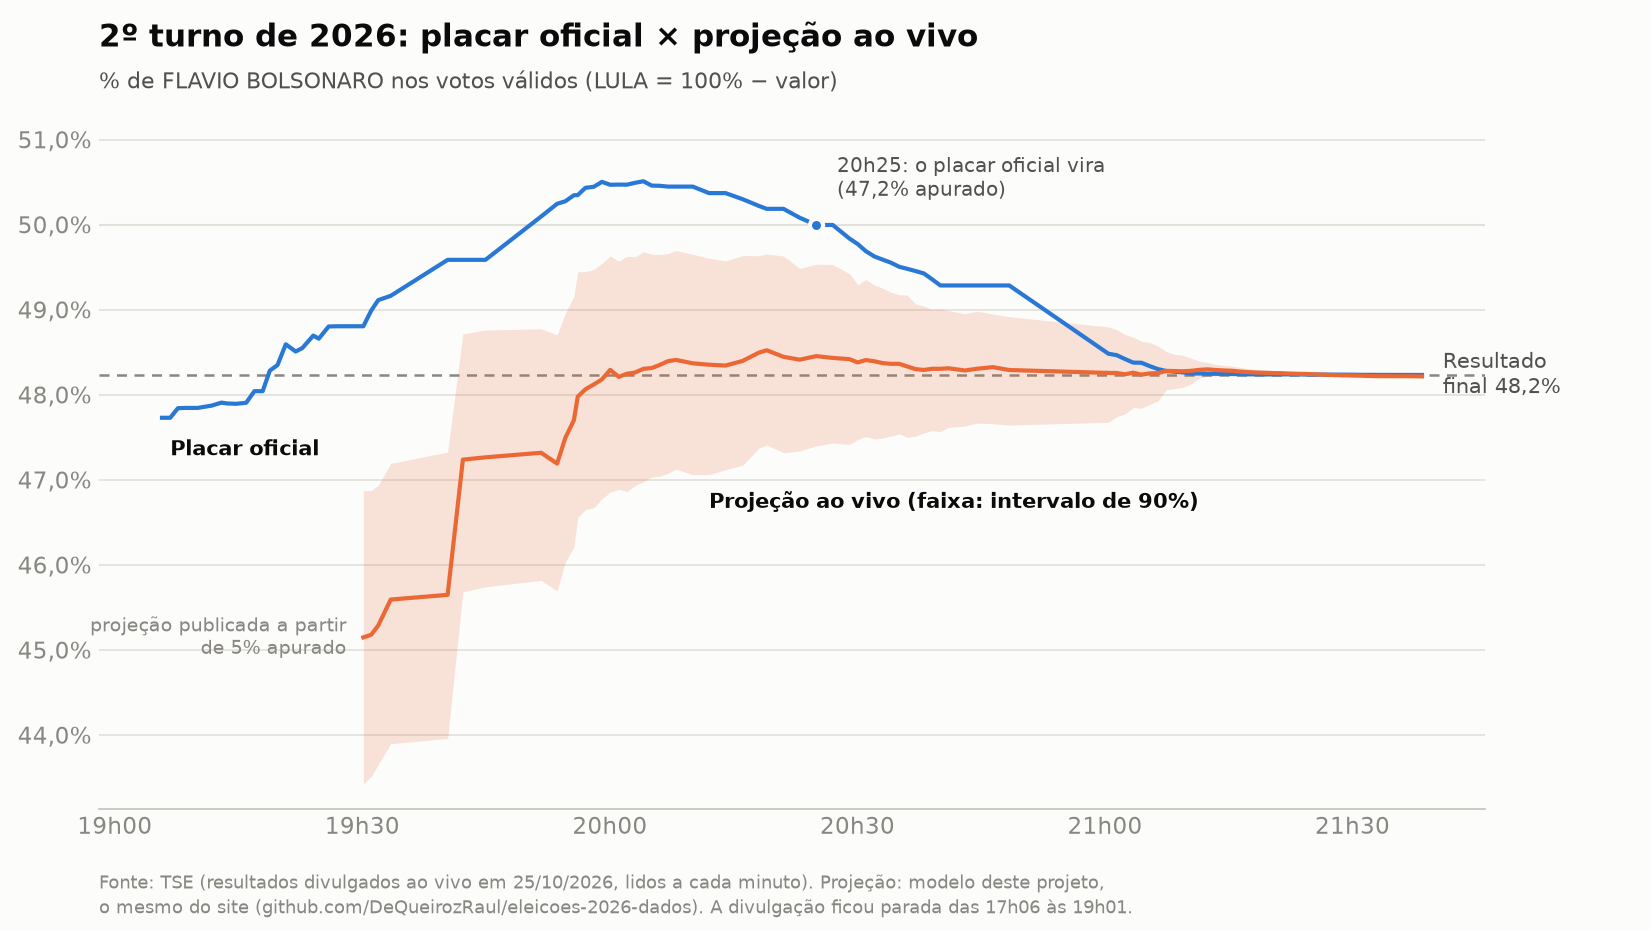
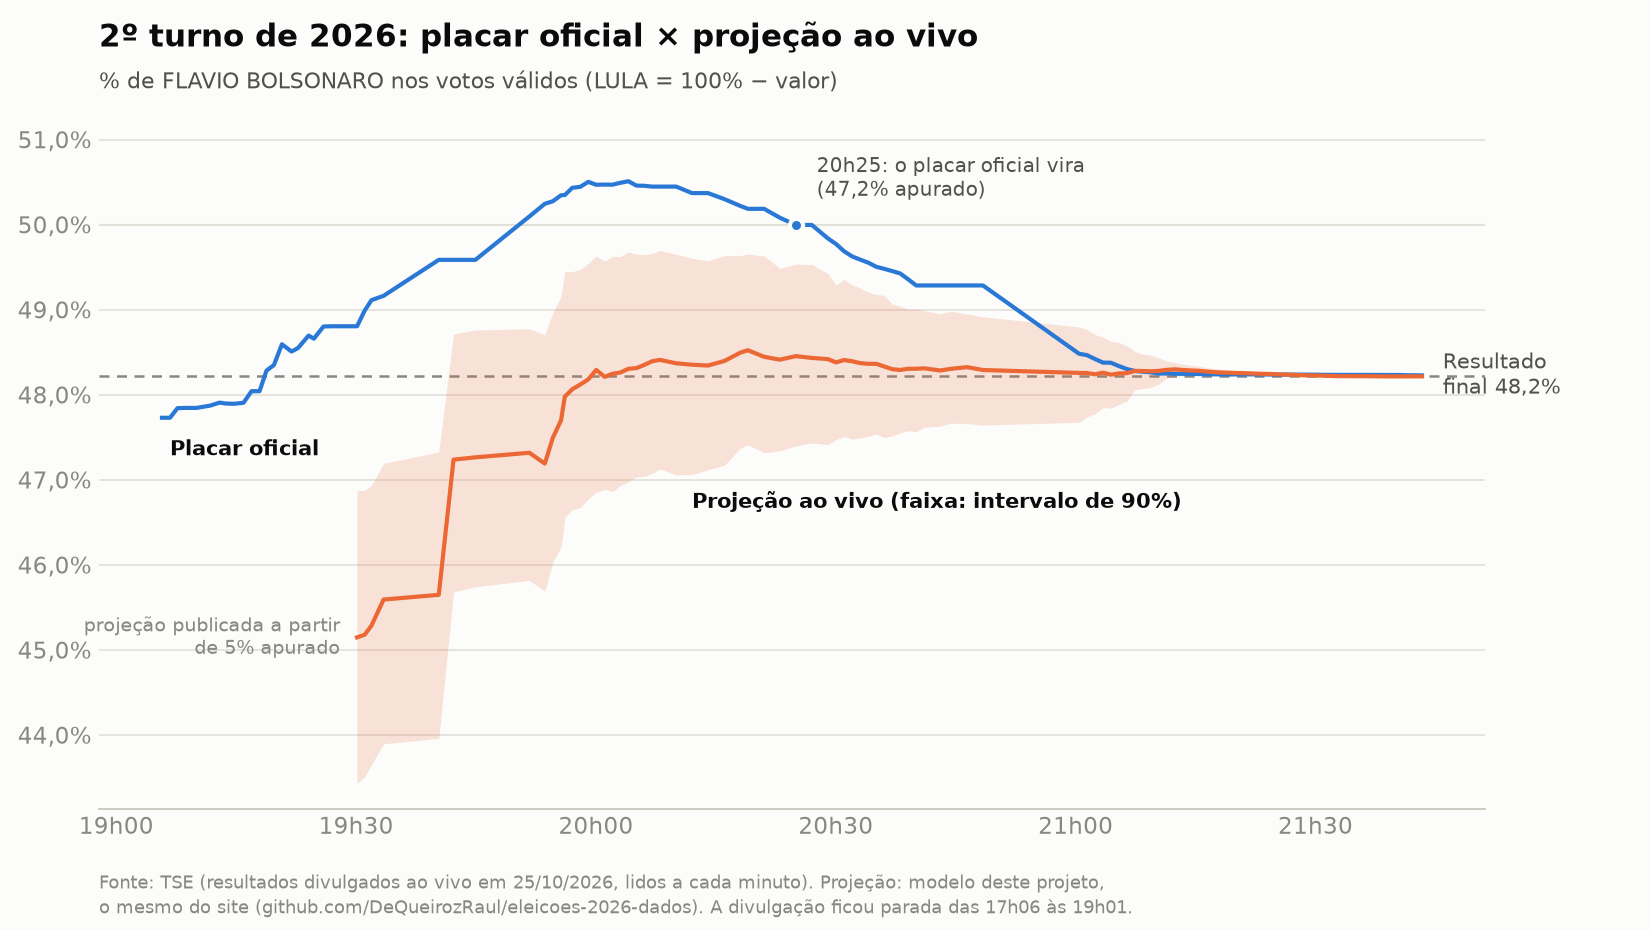
Noite de 25/10: números finais (TSE com 99,93% das seções)
Gravação encerrada às 21h45, com o TSE parado em 99,9%: o que falta
não muda o resultado nem na segunda casa decimal.

Claude-Session: https://claude.ai/code/session_01YZ8Mxwq97kEgGU7PHEBHqv

diff --git a/docs/previsao.md b/docs/previsao.md
@@ -362,7 +362,8 @@ uma regra simples.
 ## A noite de 25/10/2026
 
 Resultado do TSE: **FLAVIO BOLSONARO 48,23%** e **LULA 51,77%** dos votos
-válidos. A projeção foi gravada a cada minuto pelo
+válidos, com 99,93% das seções apuradas (o resto não muda o resultado nem na
+segunda casa decimal). A projeção foi gravada a cada minuto pelo
 [`scripts/gravar_noite.py`](../scripts/gravar_noite.py), que roda o mesmo código
 do site, e comparada com o resultado pelo
 [`scripts/analisar_noite.py`](../scripts/analisar_noite.py).
@@ -399,8 +400,9 @@ seções apuradas (pontos percentuais, no % de FLAVIO BOLSONARO):
   (47% apurado).
 - **Margem:** o resultado final ficou dentro da margem de 90% em 92% das
   atualizações entre 5% e 99,5% apurado. As que ficaram de fora foram as cinco
-  do começo. Contando o fim da noite, 83%: lá a margem fica mais estreita que os
-  milésimos de ponto que o resultado ainda mudou. Largura média da margem: 3,4
+  do começo. Depois de 99,5% apurado, a margem fica mais estreita que os
+  milésimos de ponto que o resultado ainda mudou, e o final fica fora dela por
+  menos de 0,1 ponto. Largura média da margem: 3,4
   pontos com 5% a 10% lido, 2,8 com 10% a 25%, 2,2 com 25% a 50% e 1,4 com 50% a
   75%.
 
@@ -409,7 +411,7 @@ seções apuradas (pontos percentuais, no % de FLAVIO BOLSONARO):
 1. **O TSE limitou os pedidos.** Entre 19h30 e 19h53, e de novo depois das
    20h40, o servidor de resultados (Akamai) respondeu "pedidos demais" (HTTP
    429) a parte dos arquivos. A projeção ficou atrás do TSE: às 19h40 o TSE já
-   tinha 10,9% das seções apuradas e ela, 6,9% do eleitorado. Em 17 das 118
+   tinha 10,9% das seções apuradas e ela, 6,9% do eleitorado. Em 17 das 124
    rodadas o arquivo do Brasil não veio; o gráfico repete o último placar
    recebido. Desde 19h53 o gravador pede menos: dois arquivos de cada vez, sem
    repetir o pedido na hora, e no máximo 150 a 400 municípios por rodada,
